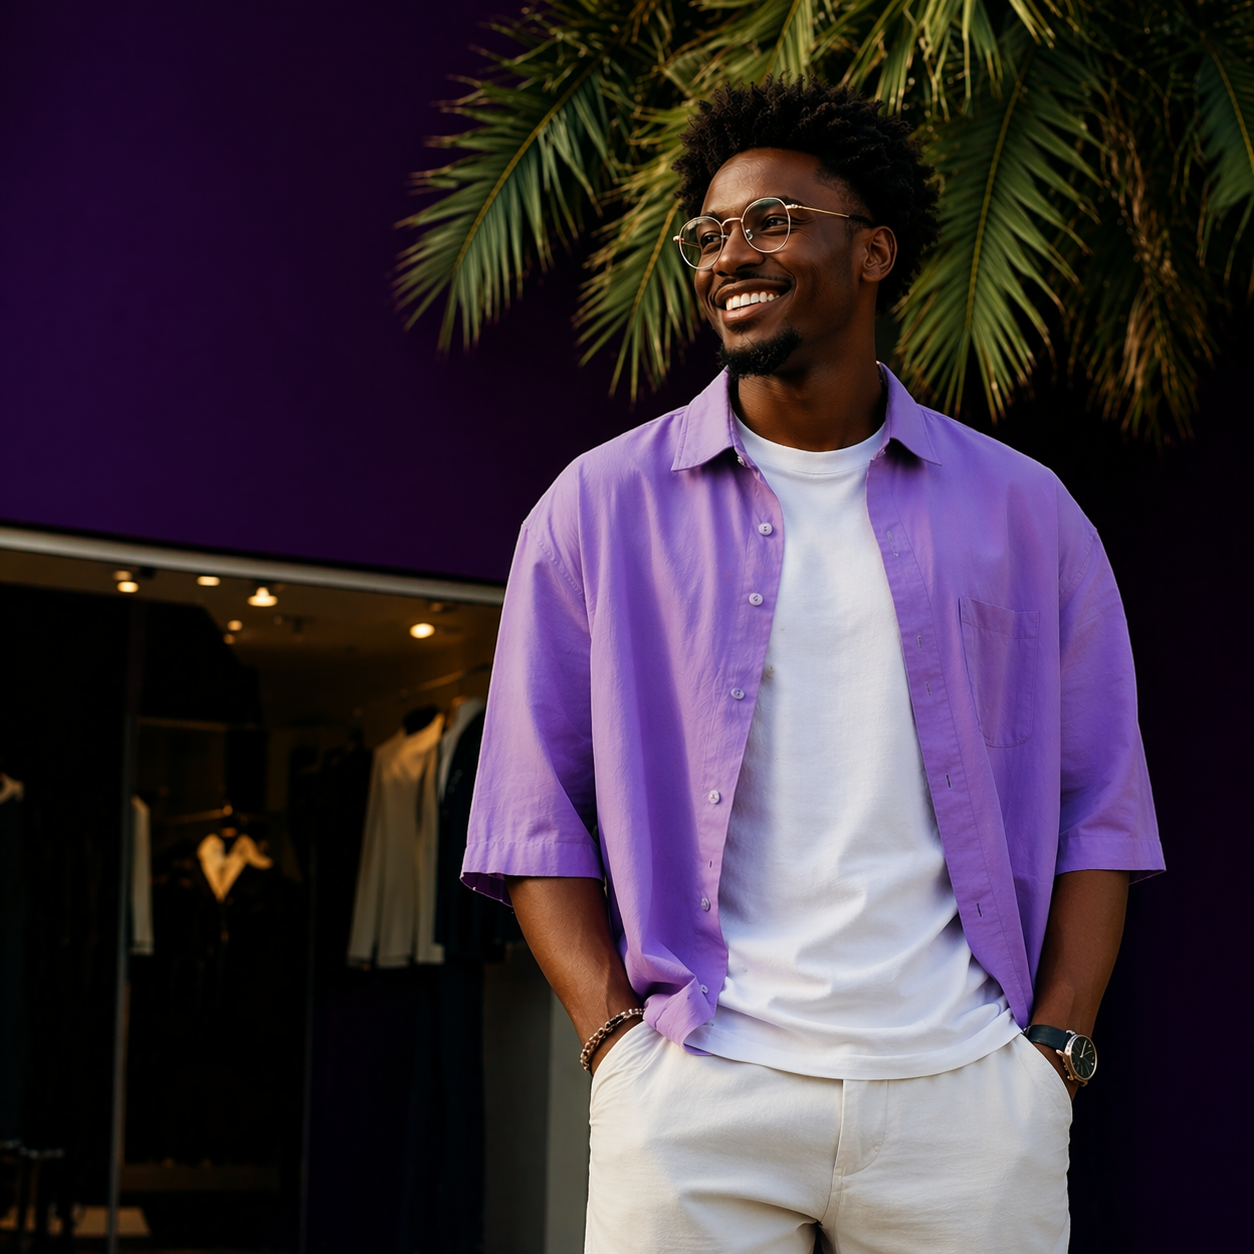
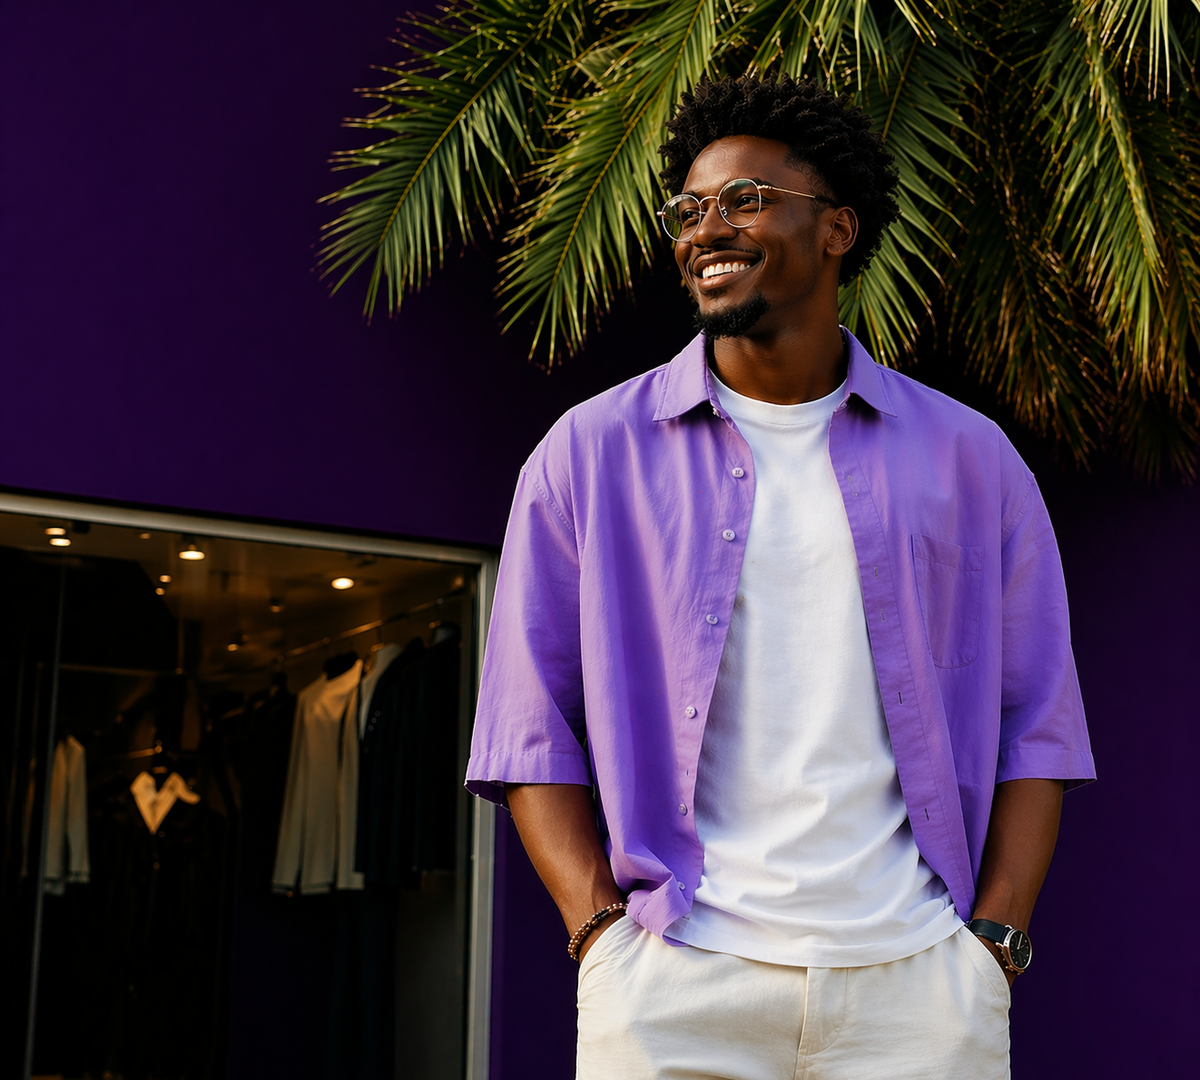
update de tout le site

diff --git a/components/heroImage.tsx b/components/heroImage.tsx
@@ -71,16 +71,16 @@ export default function HeroImage() {
       <DecorIcon className="size-4" position="bottom-right" />
 
       <FullWidthDivider className="-top-px" />
-      <div className="overflow-hidden relative w-full">
+      <div className="overflow-hidden relative h-full w-full">
         <Image
           alt="hero image"
-          height="1200"
           loading="eager"
           src="/heroImage.png"
-          width="1900"
-          className="object-cover hidden md:block absolute top-0 left-0 -z-10 w-full min-h-300 h-full dark:brightness-[0.9]"
+          fill
+          className=" object-cover hidden md:block absolute top-0 left-0 -z-10 w-full min-h-max h-full dark:brightness-[0.9]"
         />
-        <div className="py-8 md:pt-16 lg:pt-24 md:px-12 lg:px-16 md:pb-6 w-full flex flex-col gap-4 md:gap-6">
+
+        <div className="py-8 md:py-16 lg:py-20 md:px-12 lg:px-16 w-full flex flex-col gap-4 md:gap-6">
           <Item className="flex p-0 mb-6 gap-0.5 flex-row items-center justify-start w-auto">
             <ItemMedia
               variant={"icon"}
@@ -98,7 +98,7 @@ export default function HeroImage() {
             </ItemContent>
           </Item>
           <div className="grid grid-cols-1 md:grid-cols-2 gap-2 w-full text-foreground dark:md:text-foreground md:text-primary-foreground">
-            <div className="flex flex-col gap-2 md:gap-6">
+            <div className="flex flex-col text-center md:text-left gap-2 md:gap-6">
               <h2 className="text-foreground/90 dark:md:text-foreground/90 md:text-primary-foreground/90 ">
                 Automatisez vos <br /> réponses WhatsApp.
                 <br />
@@ -131,7 +131,10 @@ export default function HeroImage() {
                 ))}
               </div>
 
-              <AutomatiserButton className="w-full md:w-fit" />
+              <AutomatiserButton
+                text="Commencer maintenant"
+                className="w-full md:w-fit"
+              />
             </div>
             <div className="hidden md:flex flex-col gap-2 h-full justify-center items-center">
               <Item className="rounded-2xl ml-auto shadow-sm max-w-xs w-auto  text-primary-foreground bg-foreground">
@@ -176,19 +179,19 @@ export default function HeroImage() {
             </div>
           </div>
 
-          <div className="w-full max-w-5xl md:mx-auto py-1 md:px-2 rounded-md bg-card flex flex-col md:flex-row justify-between md:justify-center md:items-center">
+          <div className="w-full md:mt-6 md:mx-auto py-1 px-2 rounded-md bg-card flex flex-col md:flex-row justify-between md:justify-evenly md:items-center">
             {features.map((feature, idx) => (
               <React.Fragment key={idx}>
-                <Item className="w-full px-0 md:px-4 flex flex-row md:flex-col lg:flex-row items-center justify-start md:justify-center md:w-auto">
+                <Item className="w-full px-0 md:px-4 flex flex-col lg:flex-row items-center justify-start md:justify-center md:w-auto">
                   <ItemMedia
-                    className="bg-muted md:self-center! lg:self-start!  h-12 w-12 rounded-full"
+                    className="bg-muted self-center! lg:self-start!  h-12 w-12 rounded-full"
                     variant={"icon"}
                   >
                     {<feature.icon className="fill-primary" />}
                   </ItemMedia>
-                  <ItemContent className="text-center md:items-center lg:items-start md:justify-center lg:justify-start">
+                  <ItemContent className="text-center items-center lg:items-start justify-center lg:justify-start">
                     <ItemTitle>{feature.title}</ItemTitle>
-                    <ItemDescription className="md:text-center! lg:text-left!">
+                    <ItemDescription className="text-center! lg:text-left!">
                       {feature.description}
                     </ItemDescription>
                   </ItemContent>

diff --git a/components/demo.tsx b/components/demo.tsx
@@ -19,6 +19,7 @@ import { Card } from "./ui/card";
 import { DecorIcon } from "./ui/decor-icon";
 import { FullWidthDivider } from "./ui/full-width-divider";
 import PhoneMockup from "./phoneMockup";
+import { AutomatiserButton } from "./hero";
 
 const feature = [
   {
@@ -59,7 +60,7 @@ const features2 = [
 function Demo() {
   return (
     <section
-      className="w-full relative flex flex-col items-center md:items-start gap-4 py-10 px-2 md:px-6 lg:px-12"
+      className="w-full relative flex flex-col items-center md:items-start gap-4 py-10 md:py-24 px-2 md:px-6 lg:px-12"
       id="demo"
     >
       <DecorIcon className="size-4" position="bottom-left" />
@@ -70,11 +71,11 @@ function Demo() {
         <SparklesIcon className="fill-primary size-4 " /> Demo en direct
       </p>
       <div className="flex flex-col-reverse md:flex-row gap-4 items-center justify-between w-full">
-        <div className="flex flex-col gap-3 w-full md:grow md:max-w-6/10">
+        <div className="flex flex-col text-center md:text-left gap-3 w-full md:grow md:max-w-6/10">
           <h2 className="text-2xl tracking-tight md:text-3xl lg:font-extrabold lg:text-4xl">
             Voyez ExtravertyAI en action
           </h2>
-          <p className="text-sm md:text-base text-muted-foreground">
+          <p className="text-sm text-muted-foreground">
             Découvrez comment notre assistant IA répond à vos clients
             instantanément. 24h/24 et 7j/7.
           </p>
@@ -120,6 +121,17 @@ function Demo() {
               </Item>
             ))}
           </Card>
+
+          <div className="flex flex-col gap-1 mt-6 md:mt-8">
+            <p className="text-sm md:text-base font-medium">
+              Prêt à ne plus perdre des clients sur WhatsApp ?
+            </p>
+            <p className="text-sm text-muted-foreground mb-2">
+              Rejoignez les nombreuses entreprises qui utilisent déjà
+              ExtravertyAI et ne manquer plus jamais un client sur WhatsApp.
+            </p>
+            <AutomatiserButton text="Commencer maintenant" className="w-full" />
+          </div>
         </div>
         <PhoneMockup videoSrc="/video.mp4" />
       </div>

diff --git a/components/phoneMockup.tsx b/components/phoneMockup.tsx
@@ -3,16 +3,14 @@ import React from "react";
 
 type PhoneMockupProps = {
   videoSrc: string;
-  className?: string;
 };
 
 export default function PhoneMockup({
   videoSrc,
-  className = "",
 }: PhoneMockupProps) {
   return (
     <div
-      className={`relative w-full md:w-auto flex  items-center md:ml-auto justify-center md:justify-end  ${className}`}
+      className={`relative w-full md:w-auto flex  items-center md:ml-auto justify-center md:justify-end`}
     >
       {/* Téléphone */}
       <div className="relative w-full aspect-9/19.5 sm:w-80 rounded-[2.5rem] border-2 border-zinc-800 bg-zinc-950 shadow-md">

diff --git a/app/page.tsx b/app/page.tsx
@@ -11,7 +11,7 @@ export default function page() {
     <div className="relative flex min-h-screen flex-col overflow-hidden supports-[overflow:clip]:overflow-clip">
       <main
         className={cn(
-          "relative mx-auto grow",
+          "relative mx-auto max-w-7xl grow",
           // X Borders
           "before:absolute before:-inset-y-14 before:-left-px before:w-px before:bg-border",
           "after:absolute after:-inset-y-14 after:-right-px after:w-px after:bg-border",